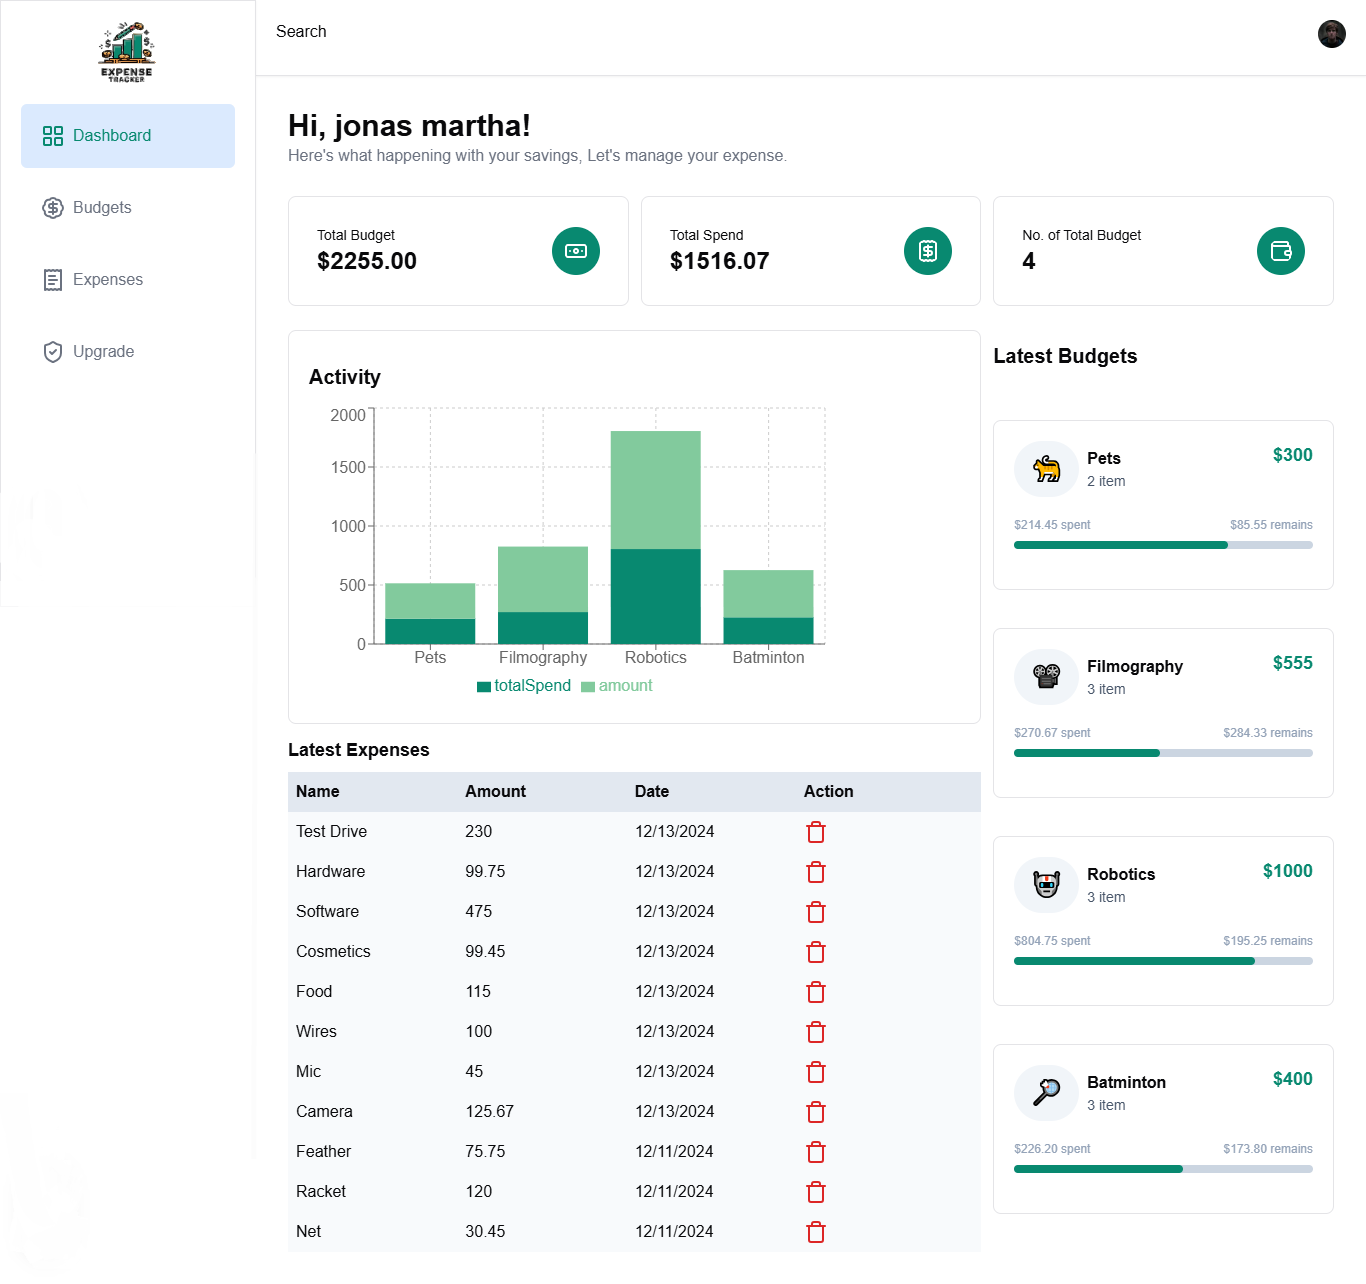
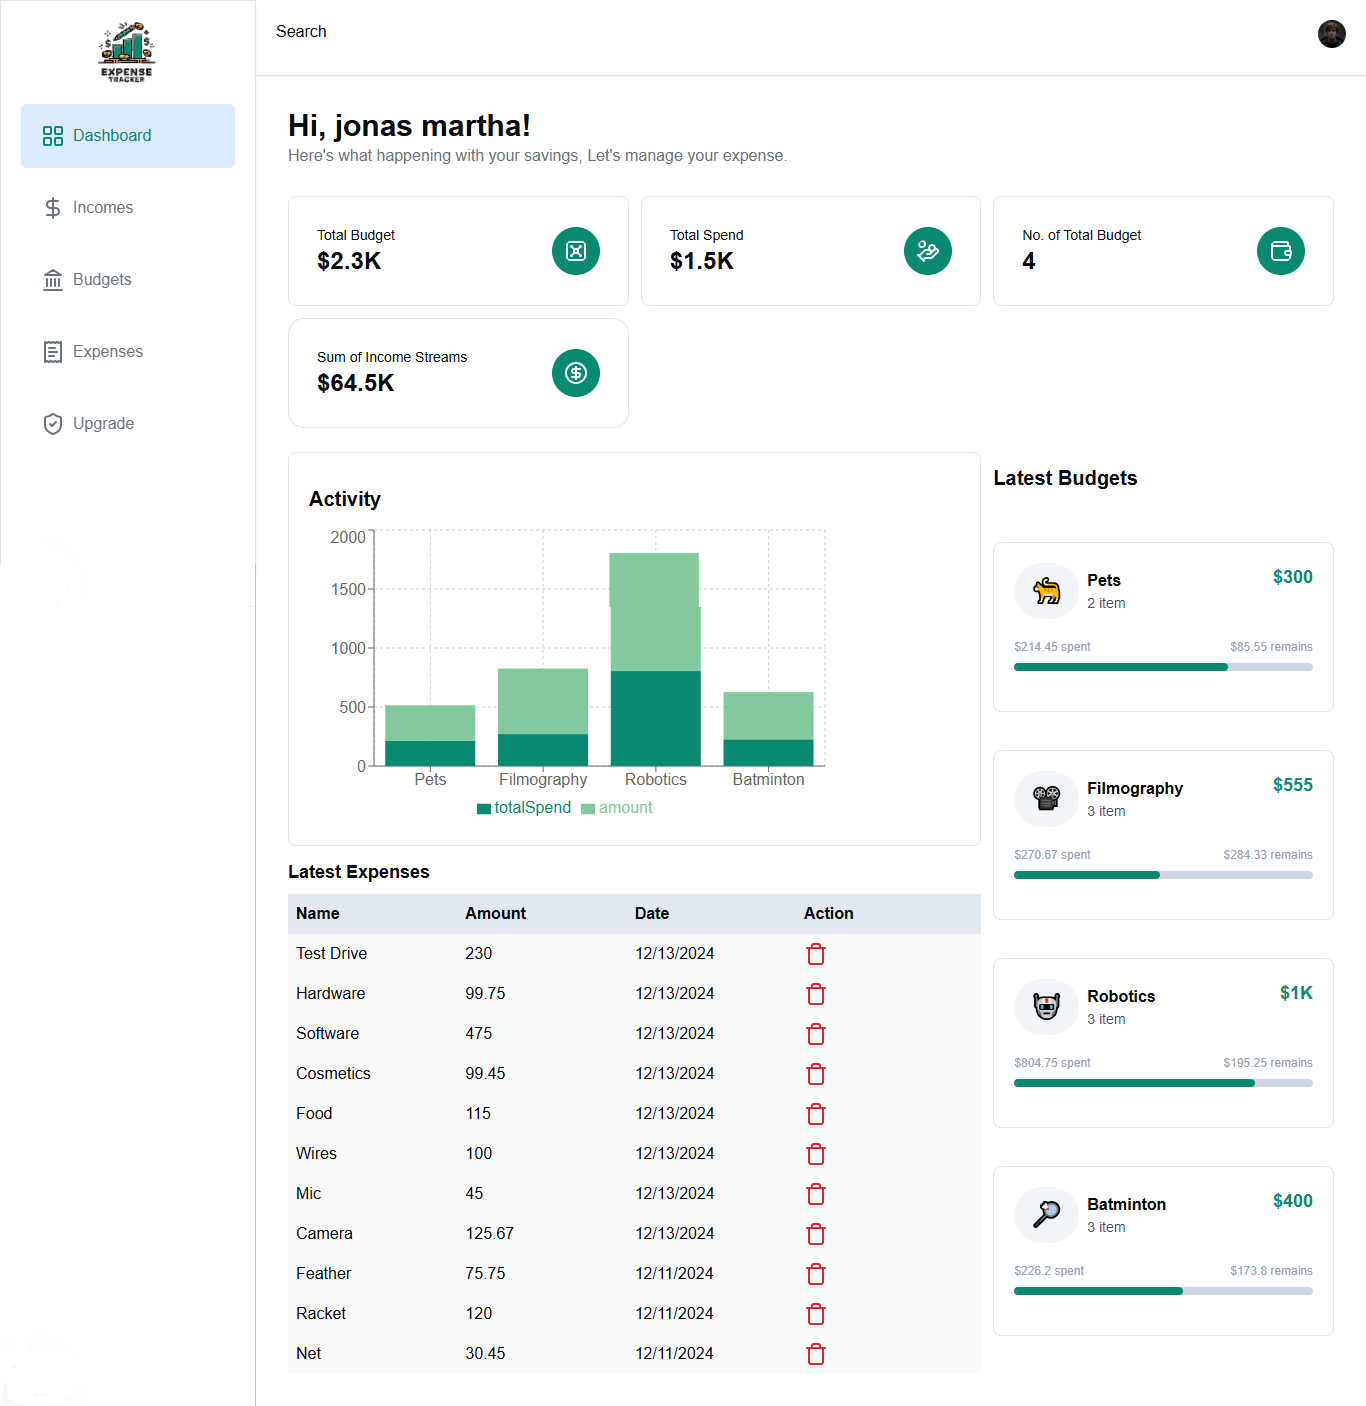
some changes added

diff --git a/app/_components/Hero.tsx b/app/_components/Hero.tsx
@@ -16,37 +16,6 @@ function Hero() {
   }, [isSignedIn, router]);
 
   return (
-    // <section className='bg-gray-50 flex items-center flex-col'>
-    //   <div className='mx-auto max-w-screen-xl px-4 py-32 lg:flex'>
-    //     <div className='mx-auto max-w-xl text-center'>
-    //       <h1 className='text-2xl font-extrabold sm:text-4xl'>
-    //         Manage Your Expense <br />
-    //         <strong className='font-extrabold text-primary sm:block'>
-    //           Control Your Money
-    //         </strong>
-    //       </h1>
-
-    //       <p className='mt-4 sm:text-xl/relaxed'>
-    //         Start creating your money and save ton of money!
-    //       </p>
-    //       <div className='mt-8 flex flex-wrap justify-center gap-4'>
-    //         <Link
-    //           className='block w-full rounded bg-primary px-12 py-3 text-sm font-medium text-white shadow hover:bg-green-700 focus:outline-none focus:ring active:bg-green-500 sm:w-auto cursor-pointer'
-    //           href={'/sign-in'}
-    //         >
-    //           Get Started
-    //         </Link>
-    //       </div>
-    //     </div>
-    //   </div>
-    //   <Image
-    //     src='/dashboard.png'
-    //     alt='dashboard'
-    //     width={1000}
-    //     height={700}
-    //     className='mt-5 rounded-xl border-2'
-    //   />
-    // </section>
     <section className='bg-gray-50 flex items-center flex-col'>
       <div className='flex flex-col overflow-hidden'>
         <ContainerScroll

diff --git a/app/(routes)/dashboard/expenses/_components/ExpenseDash.tsx b/app/(routes)/dashboard/expenses/_components/ExpenseDash.tsx
@@ -12,20 +12,6 @@ function ExpenseDash() {
   const [expenseLists, setExpenseLists] = useState<ExpenseType[]>([]);
   const router = useRouter();
 
-  //   // Wrap the function in useCallback
-  //   const getBudgetLists = useCallback(async () => {
-  //     const response = await fetch('/api/get-budget-lists', {
-  //       method: 'GET',
-  //       headers: {
-  //         'Content-Type': 'application/json',
-  //         'X-User-Email': user?.primaryEmailAddress?.emailAddress || '',
-  //       },
-  //     });
-
-  //     const result = await response.json();
-  //     setBudgetLists(result);
-  //   }, [user?.primaryEmailAddress?.emailAddress]); // Include dependencies
-
   // Wrap the function in useCallback
   const getExpenseLists = useCallback(async () => {
     const response = await fetch('/api/get-all-expense-lists', {
@@ -42,7 +28,6 @@ function ExpenseDash() {
 
   useEffect(() => {
     if (user) {
-      //   getBudgetLists();
       getExpenseLists();
     }
   }, [user, getExpenseLists]); // Dependencies include the user and the callback
@@ -66,7 +51,6 @@ function ExpenseDash() {
           expenseLists={expenseLists || []}
           refreshData={() => {
             getExpenseLists();
-            // getBudgetLists();
           }}
         />
       </div>

diff --git a/app/(routes)/dashboard/_components/CardInfo.tsx b/app/(routes)/dashboard/_components/CardInfo.tsx
@@ -15,7 +15,6 @@ function CardInfo({
   const [totalBudget, setTotalBudget] = useState(0);
   const [totalIncome, setTotalIncome] = useState(0);
   const [totalSpend, setTotalSpend] = useState(0);
-  // const [financialAdvice, setFinancialAdvice] = useState(0);
 
   const calculateCardInfo = useCallback(() => {
     let totalBudget_ = 0;
@@ -75,8 +74,7 @@ function CardInfo({
             <div>
               <h2 className='text-sm'>Sum of Income Streams</h2>
               <h2 className='font-bold text-2xl'>
-                {/* ${formatNumber(Number(totalIncome.toFixed(2)))} */}$
-                {formatNumber(Number(totalIncome.toFixed(2)))}
+                ${formatNumber(Number(totalIncome.toFixed(2)))}
               </h2>
             </div>
             <CircleDollarSign className='bg-primary p-3 h-12 w-12 rounded-full text-white' />

diff --git a/app/(routes)/dashboard/budgets/_components/BudgetList.tsx b/app/(routes)/dashboard/budgets/_components/BudgetList.tsx
@@ -51,15 +51,7 @@ function BudgetList() {
           ? budgetLists.map((budget, idx) => (
               <BudgetItem key={idx} budget={budget} />
             ))
-          : // : Array.from(
-            //     {
-            //       length: budgetLists?.length || 0
-            //     },
-            //     (_, idx) => idx + 1
-            //   ).map((num) => (
-            //     <div
-            //       key={num}
-            [1, 2, 3, 4, 5].map((num) => (
+          : [1, 2, 3, 4, 5].map((num) => (
               <div
                 key={num}
                 className='w-full bg-slate-200 rounded-lg h-[150px] animate-pulse'

diff --git a/drizzle.config.ts b/drizzle.config.ts
@@ -1,15 +1,5 @@
 import { Config, defineConfig } from 'drizzle-kit';
 
-// export default defineConfig({
-//   dialect: 'postgresql',
-//   schema: './src/schema.ts',
-//   out: './drizzle',
-//   dbCredentials: {
-//     connectionString: process.env.DATABASE_URL!,
-//     // eslint-disable-next-line @typescript-eslint/no-explicit-any
-//   } as any, // Use cautiously, ensure runtime support
-// }) satisfies Config;
-
 export default defineConfig({
   dialect: 'postgresql',
   schema: './utils/schema.tsx',

diff --git a/types/index.ts b/types/index.ts
@@ -8,18 +8,16 @@ export type BudgetType = {
   amount: number;
 };
 
-// Define a type for your budget objects
+// Define a type for your income objects
 export type IncomeType = {
   id: number;
   name: string;
-  // totalSpend: number;
-  // totalItem: number;
   totalAmount: number;
   icon: string;
   amount: number;
 };
 
-// Define a type for your budget objects
+// Define a type for your expense objects
 export type ExpenseType = {
   id: number;
   name: string;

diff --git a/app/api/get-income-lists/route.ts b/app/api/get-income-lists/route.ts
@@ -16,8 +16,6 @@ export async function GET(request: NextRequest) {
   const result = await db
     .select({
       ...getTableColumns(Incomes),
-      // totalSpend: sql`sum(${Expenses.amount})`.mapWith(Number),
-      // totalItem: sql`count(${Expenses.id})`.mapWith(Number),
     })
     .from(Incomes)
     .leftJoin(Expenses, eq(Incomes.id, Expenses.budgetId))

diff --git a/components/ui/stars-background.tsx b/components/ui/stars-background.tsx
@@ -35,8 +35,6 @@ export const StarsBackground: React.FC<StarBackgroundProps> = ({
   className,
 }) => {
   const [stars, setStars] = useState<StarProps[]>([]);
-  //   const canvasRef: RefObject<HTMLCanvasElement> =
-  //     useRef<HTMLCanvasElement>(null);
   const canvasRef: RefObject<HTMLCanvasElement | null> =
     useRef<HTMLCanvasElement>(null);
 

diff --git a/app/api/create-budget/route.ts b/app/api/create-budget/route.ts
@@ -10,7 +10,7 @@ export async function POST(request: Request) {
     .values({
       name: data?.name,
       amount: data?.amount,
-      createdBy: data?.createdBy, // user?.primaryEmailAddress?.emailAddress as string,
+      createdBy: data?.createdBy,
       icon: data?.icon,
     })
     .returning({

diff --git a/app/api/create-income/route.ts b/app/api/create-income/route.ts
@@ -10,7 +10,7 @@ export async function POST(request: Request) {
     .values({
       name: data?.name,
       amount: data?.amount,
-      createdBy: data?.createdBy, // user?.primaryEmailAddress?.emailAddress as string,
+      createdBy: data?.createdBy,
       icon: data?.icon,
     })
     .returning({

diff --git a/middleware.ts b/middleware.ts
@@ -1,6 +1,5 @@
 import { clerkMiddleware, createRouteMatcher } from '@clerk/nextjs/server';
 
-// const publicRoute = createRouteMatcher(['/']);
 const isPublicRoute = createRouteMatcher(['/', '/sign-in(.*)', '/sign-up(.*)']);
 
 export default clerkMiddleware(async (auth, request) => {

diff --git a/app/(routes)/dashboard/incomes/_components/CreateIncome.tsx b/app/(routes)/dashboard/incomes/_components/CreateIncome.tsx
@@ -40,9 +40,7 @@ function CreateIncome({ refreshData }: { refreshData: () => void }) {
       }),
     });
 
-    console.log('data', data);
     const result = await response.json();
-    console.log('result,', result);
 
     if (result) {
       refreshData();
